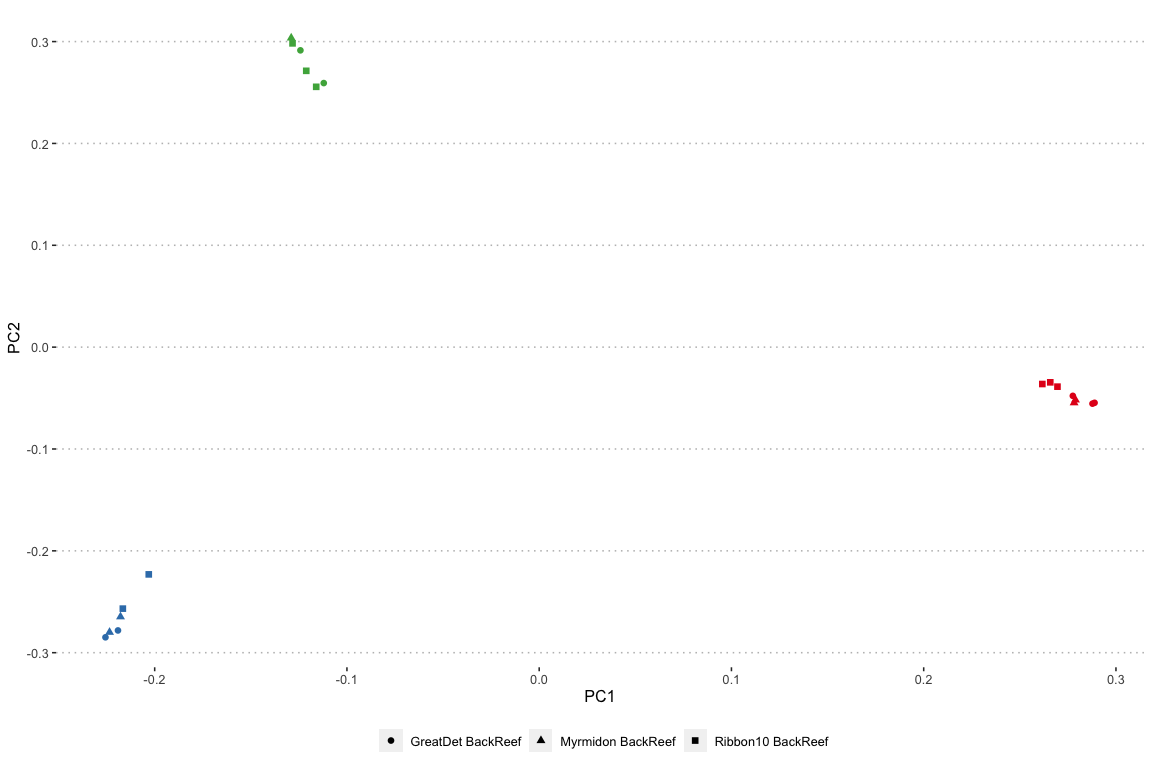
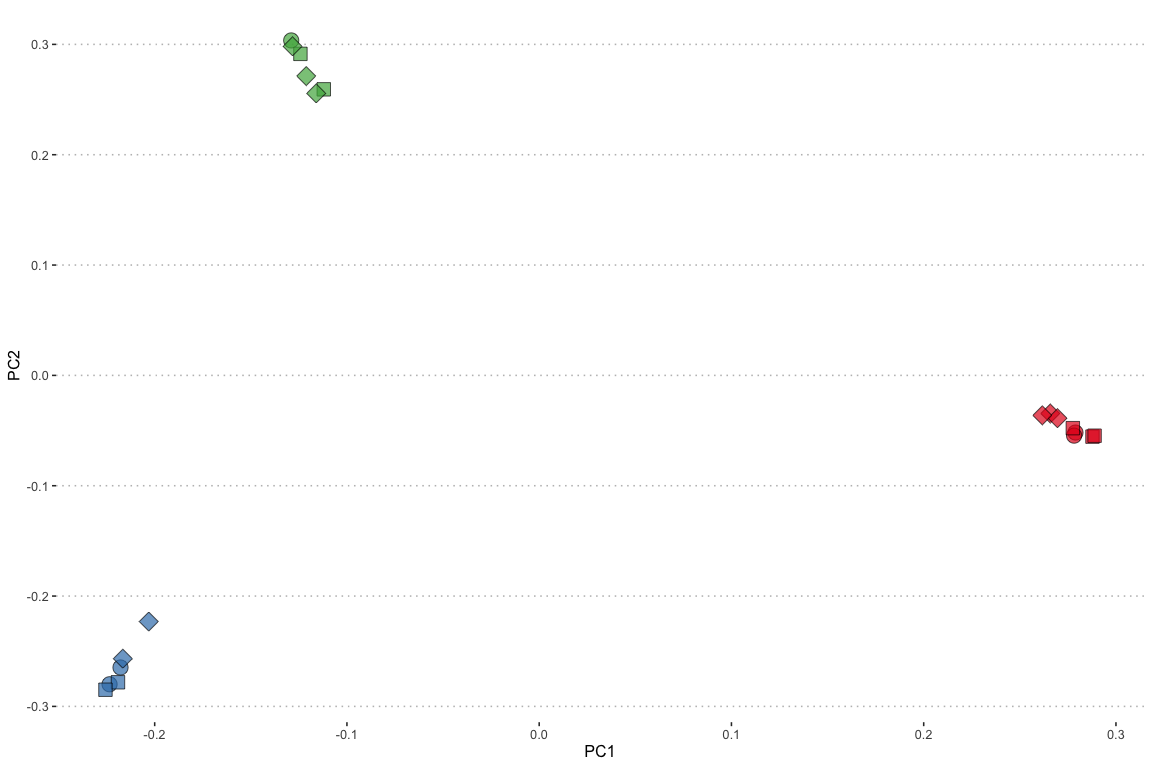
Fix lineage assignments

diff --git a/02_population_structure.md b/02_population_structure.md
@@ -2,19 +2,19 @@ Population Structure
 ================
 Ira Cooke
 
-We used PCAngst to infer population structure from low whole genome
-sequencing data on our 20 *P. speciosa* samples. PCAngst creates a
+We used PCAngsd to infer population structure from low whole genome
+sequencing data on our 20 *P. speciosa* samples. PCAngsd creates a
 sample covariance matrix to allow model-free genetic clustering of
 samples. It also calculates the optimal number of clusters and
 calculates admixture proportions based on these.
 
-As input data to PCAngst we used bam files produced by following the
+As input data to PCAngsd we used bam files produced by following the
 GATK best practices workflow for mapping reads to the host genome, as
 well as marking adapters and duplicats. `angsd` was then used to call
 variant sites and calculate genotype likelihoods at all of those sites.
 See \[hpc/angsd/02\_import\_vcf.sh\] for full details.
 
-Genotype likelihood values were then used as input to `PCAngst` to
+Genotype likelihood values were then used as input to `PCAngsd` to
 produce a covariance
 matrix.
 

diff --git a/04_sequencing_summary.md b/04_sequencing_summary.md
@@ -25,6 +25,6 @@ indicated with a `*`.
 | DC8235    | GBR - Ribbon10 BackReef | 6.5      | Green   |      |
 | DC8220    | GBR - Ribbon10 BackReef | 5.0      | Blue    |      |
 | DC8229    | GBR - Ribbon10 BackReef | 5.6      | Blue    |      |
-| DC8222    | GBR - Ribbon10 BackReef | 4.0      | Blue    |      |
+| DC8222    | GBR - Ribbon10 BackReef | 4.0      | Red     |      |
 | DC8223    | GBR - Ribbon10 BackReef | 4.4      | Red     |      |
 | DC8238    | GBR - Ribbon10 BackReef | 4.6      | Red     |      |
